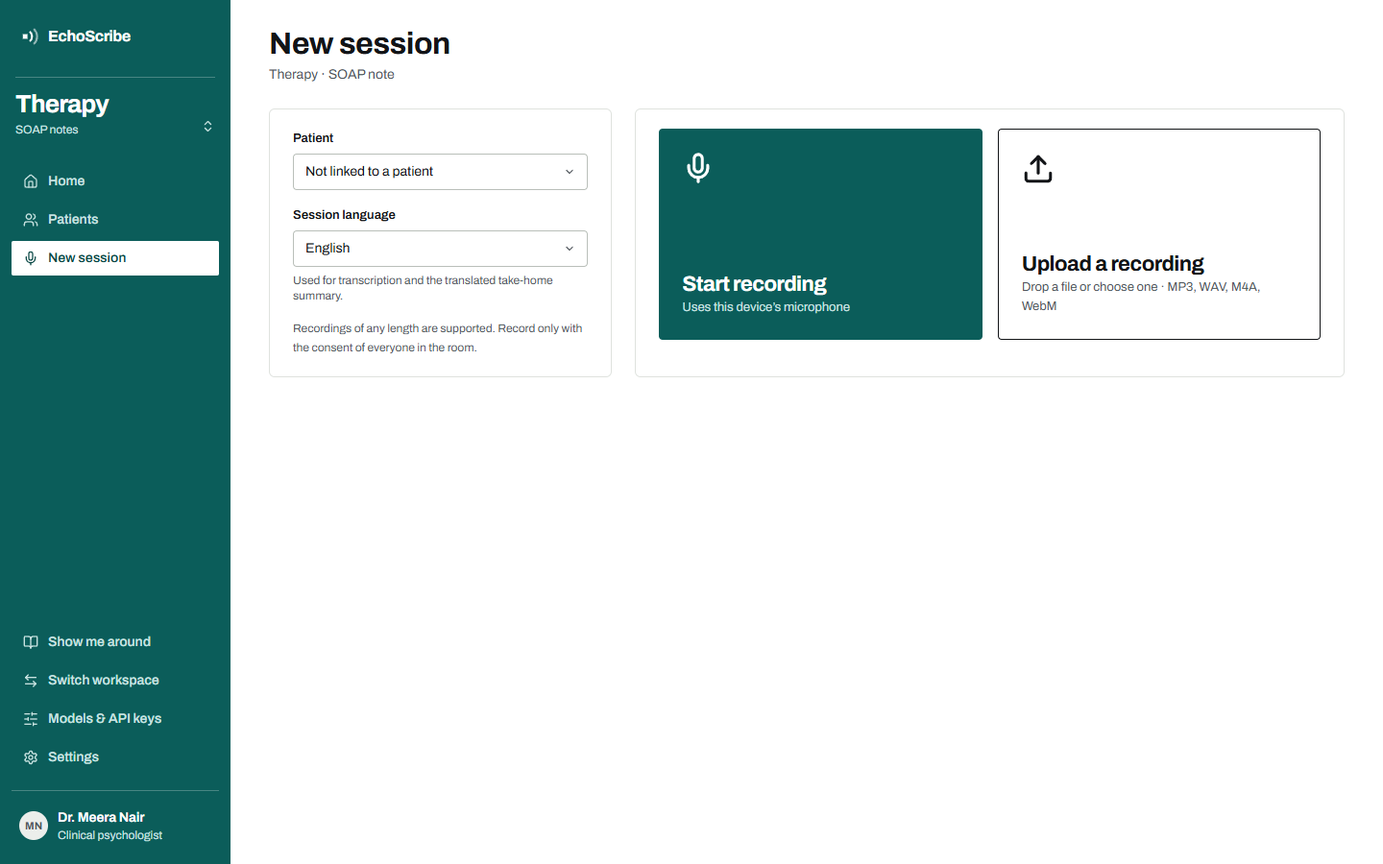
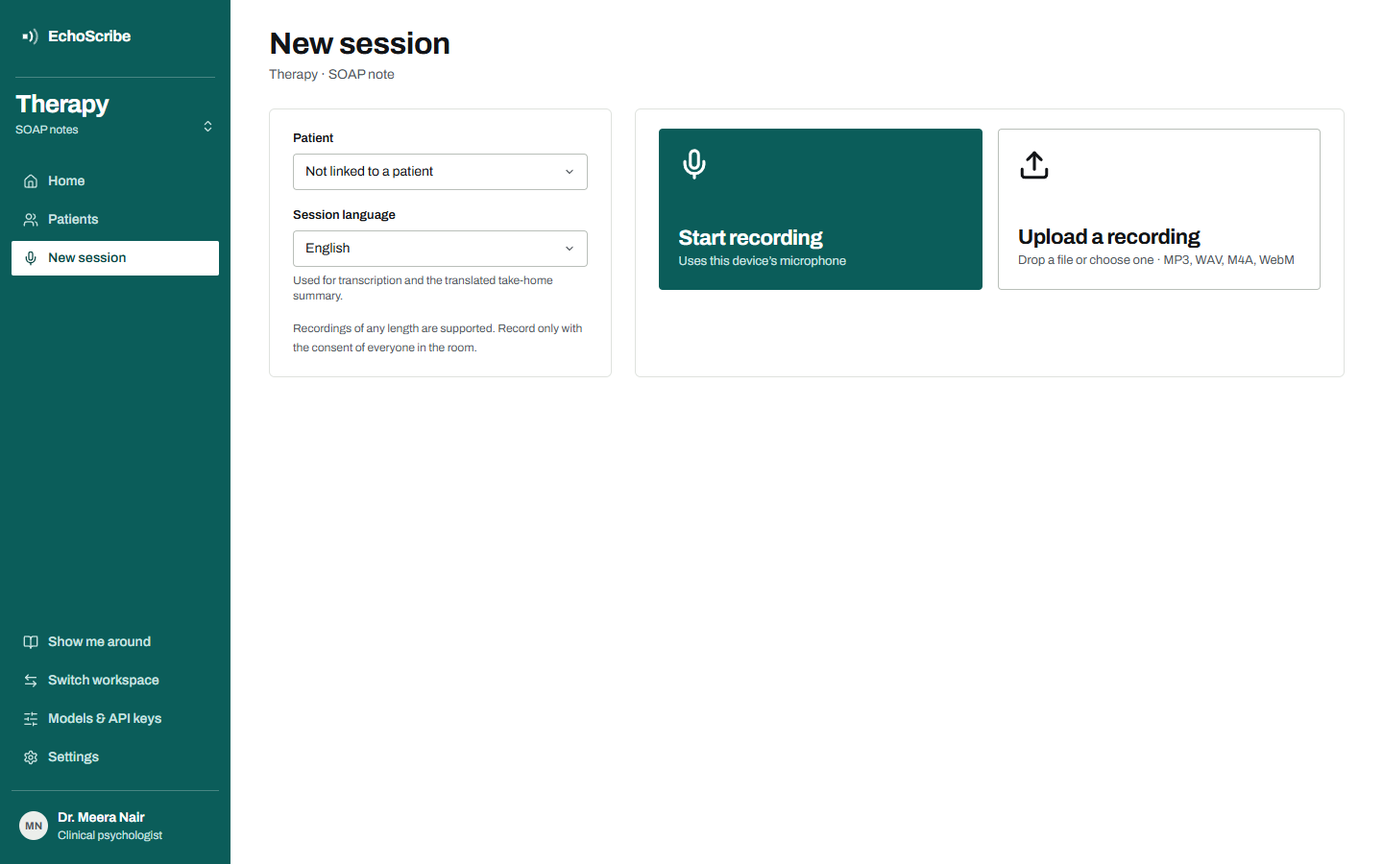
Frontend: critique, worst-case and mobile passes (lighter colour fields, wrapping, touch targets, safe areas)

Changed region(s): [[0.4688, 0.2489, 0.9375, 0.4044], [0.7188, 0.1867, 0.7812, 0.2178], [0.5, 0.1556, 0.5312, 0.2178]]

diff --git a/frontend/src/styles/index.css b/frontend/src/styles/index.css
@@ -124,6 +124,13 @@
 /* ─── base ─── */
 
 html, body, #root { height: 100%; }
+html {
+  -webkit-tap-highlight-color: transparent;  /* no grey flash on tap; controls have their own :active */
+  -webkit-text-size-adjust: 100%;
+  overscroll-behavior: none;                 /* app shell: no pull-to-refresh or page rubber band */
+}
+button, a, [role="button"], [role="tab"], [role="switch"] { touch-action: manipulation; }
+button, [role="button"], [role="tab"], .btn, .nav-item, .subnav-item, .menu-item, .tab { -webkit-user-select: none; user-select: none; }
 body {
   margin: 0;
   background: var(--chrome);
@@ -203,20 +210,15 @@ a { text-underline-offset: 3px; }
   .btn:active:not(:disabled) { box-shadow: inset 0 1px 2px rgba(0,0,0,.18); }
   .btn:disabled { cursor: not-allowed; opacity: 0.5; }
   .btn-primary, .btn-accent { background: var(--accent); color: var(--on-accent); border: 1px solid var(--accent); }
-  .btn-primary:hover:not(:disabled), .btn-accent:hover:not(:disabled) { background: var(--accent-ink); border-color: var(--accent-ink); }
   .btn-secondary { background: var(--ground); color: var(--text); border: 1px solid var(--control); }
-  .btn-secondary:hover:not(:disabled) { border-color: var(--text); }
   .btn-ghost { background: transparent; color: var(--text); border: 1px solid transparent; }
-  .btn-ghost:hover:not(:disabled) { background: var(--surface-2); }
   .btn-danger { background: var(--ground); color: var(--negative); border: 1px solid #e3b4a6; }
-  .btn-danger:hover:not(:disabled) { border-color: var(--negative); }
   .btn-sm { height: 30px; padding: 0 10px; font-size: 13px; }
   .btn-lg { height: 44px; padding: 0 20px; font-size: 15px; }
   .btn-icon { width: 36px; padding: 0; }
   .btn-icon.btn-sm { width: 30px; }
 
   .link { color: var(--accent-ink); font-weight: 550; text-decoration: underline; text-decoration-thickness: 1px; text-decoration-color: color-mix(in srgb, var(--accent) 45%, transparent); }
-  .link:hover { text-decoration-color: var(--accent); }
 
   /* ─── fields ─── */
   .field-label { display: block; font-weight: 600; font-size: 13px; margin-bottom: 6px; }
@@ -231,7 +233,6 @@ a { text-underline-offset: 3px; }
   }
   textarea.input { height: auto; padding: 9px 12px; resize: vertical; }
   .input::placeholder { color: var(--faint); }
-  .input:hover { border-color: var(--muted); }
   .input:focus { outline: none; border-color: var(--accent); box-shadow: 0 0 0 1px var(--accent); }
   .input[aria-invalid="true"] { border-color: var(--negative); }
   .input:disabled { background: var(--surface); color: var(--muted); }
@@ -255,22 +256,18 @@ a { text-underline-offset: 3px; }
     border-radius: 2px; color: var(--on-accent-muted); font-weight: 550;
     transition: background-color var(--dur-2), color var(--dur-2);
   }
-  .nav-item:hover { color: var(--on-accent); background: rgba(255, 255, 255, 0.08); }
   .nav-item[aria-current="page"] { color: var(--accent-ink); background: var(--on-accent); }
   .nav-item:focus-visible { outline-color: var(--on-accent); }
   /* secondary navigation on paper (settings) */
   .subnav-item { display: flex; align-items: center; gap: 10px; height: 36px; padding: 0 10px; border-radius: 2px; color: var(--muted); font-weight: 550; transition: background-color var(--dur-2), color var(--dur-2); }
-  .subnav-item:hover { color: var(--text); background: var(--surface); }
   .subnav-item[aria-current="page"] { color: var(--accent-ink); background: var(--accent-tint); font-weight: 650; }
   /* menu items inside floating layers use ink, not the field colours */
   .menu-item { display: flex; align-items: center; gap: 10px; height: 34px; padding: 0 10px; border-radius: 2px; color: var(--text); font-weight: 500; width: 100%; text-align: left; }
-  .menu-item:hover { background: var(--surface-2); }
 
   /* ─── tabs: a rule with the selected tab underlined in the line colour ─── */
   .tabs { display: inline-flex; gap: 20px; border-bottom: 1px solid var(--border); }
   .tab { height: 36px; padding: 0 2px; font-weight: 600; color: var(--muted); border-bottom: 2px solid transparent; margin-bottom: -1px; transition: color var(--dur-2), border-color var(--dur-2); }
   .tab[aria-selected="true"] { color: var(--text); border-bottom-color: var(--accent); }
-  .tab:hover:not([aria-selected="true"]) { color: var(--text); }
 
   /* ─── switch ─── */
   .switch { position: relative; width: 36px; height: 20px; border-radius: 2px; background: var(--control); transition: background-color var(--dur-2); flex: none; }
@@ -285,12 +282,36 @@ a { text-underline-offset: 3px; }
     background: var(--ground); border: 1px solid var(--border); border-radius: var(--radius-inner);
     transition: border-color var(--dur-2), background-color var(--dur-2);
   }
-  a.row-card:hover, button.row-card:hover { border-color: var(--text); }
 
   /* data tables */
   .table { width: 100%; border-collapse: collapse; font-variant-numeric: tabular-nums; }
   .table th { text-align: left; font-size: 12px; font-weight: 650; color: var(--muted); padding: 0 12px 8px; border-bottom: 1px solid var(--text); white-space: nowrap; }
   .table td { padding: 11px 12px; border-bottom: 1px solid var(--rule); vertical-align: middle; }
   .table tbody tr { transition: background-color var(--dur-2); }
-  .table tbody tr:hover { background: var(--surface); }
+
+  /* hover only where the pointer can hover: no sticky hover after a tap on phones */
+  @media (hover: hover) and (pointer: fine) {
+    .btn-primary:hover:not(:disabled), .btn-accent:hover:not(:disabled) { background: var(--accent-ink); border-color: var(--accent-ink); }
+    .btn-secondary:hover:not(:disabled) { border-color: var(--text); }
+    .btn-ghost:hover:not(:disabled) { background: var(--surface-2); }
+    .btn-danger:hover:not(:disabled) { border-color: var(--negative); }
+    .link:hover { text-decoration-color: var(--accent); }
+    .input:hover { border-color: var(--muted); }
+    .nav-item:hover { color: var(--on-accent); background: rgba(255, 255, 255, 0.08); }
+    .subnav-item:hover { color: var(--text); background: var(--surface); }
+    .menu-item:hover { background: var(--surface-2); }
+    .tab:hover:not([aria-selected="true"]) { color: var(--text); }
+    a.row-card:hover, button.row-card:hover { border-color: var(--text); }
+    .table tbody tr:hover { background: var(--surface); }
+  }
+
+  /* phones and tablets: 44px touch targets, 16px inputs so iOS does not zoom on focus */
+  @media (pointer: coarse) {
+    .btn { min-height: 44px; }
+    .btn-sm { height: 40px; min-height: 40px; }
+    .btn-icon { min-width: 44px; }
+    .btn-icon.btn-sm { width: 40px; min-width: 40px; }
+    .input, select.input, textarea.input { font-size: 16px; }
+    .nav-item, .subnav-item, .menu-item { min-height: 44px; }
+  }
 }

diff --git a/frontend/src/screens/Record.tsx b/frontend/src/screens/Record.tsx
@@ -257,7 +257,7 @@ export default function Record() {
         <section className="panel lg:col-span-8" data-tour="record-controls" aria-label="Record or upload">
           {phase === 'idle' && (
             <div className="grid grid-cols-1 md:grid-cols-2 gap-4">
-              <button type="button" onClick={start} className="field-accent rounded-[4px] flex flex-col items-start justify-between gap-10 p-6 min-h-[220px] text-left hover:bg-accent-ink transition-colors">
+              <button type="button" onClick={start} className="field-accent rounded-[4px] flex flex-col items-start justify-between gap-6 p-5 min-h-[168px] text-left hover:bg-accent-ink transition-colors">
                 <Mic size={34} strokeWidth={2.2} />
                 <span>
                   <span className="block font-bold text-[22px] tracking-[-0.02em]">Start recording</span>
@@ -268,7 +268,7 @@ export default function Record() {
                 onDragOver={e => { e.preventDefault(); setDragOver(true) }}
                 onDragLeave={() => setDragOver(false)}
                 onDrop={e => { e.preventDefault(); setDragOver(false); pickFile(e.dataTransfer.files?.[0]) }}
-                className={clsx('rounded-[4px] border flex flex-col items-start justify-between gap-10 p-6 min-h-[220px] cursor-pointer transition-colors', dragOver ? 'border-accent bg-accent-tint' : 'border-ink hover:bg-surface')}
+                className={clsx('rounded-[4px] border flex flex-col items-start justify-between gap-6 p-5 min-h-[168px] cursor-pointer transition-colors', dragOver ? 'border-accent bg-accent-tint' : 'border-control hover:border-ink hover:bg-surface')}
               >
                 <Upload size={34} strokeWidth={2.2} />
                 <span>
@@ -283,17 +283,17 @@ export default function Record() {
           {phase === 'recording' && (
             <div className="flex flex-col gap-4">
               {/* in the room: one quiet field, the clock and the stop control, nothing else */}
-              <div className="field-accent rounded-[4px] p-6 sm:p-8 min-h-[300px] flex flex-col justify-between">
-                <p className="m-0 text-[13px] text-on-accent-muted flex items-center gap-2"><Circle size={8} className="fill-current animate-pulse" />Recording · stop when the session ends</p>
+              <div className="bg-accent-tint border-t-4 border-accent p-5 sm:p-7 min-h-[200px] flex flex-col justify-between">
+                <p className="m-0 text-[13px] text-accent-ink flex items-center gap-2"><Circle size={8} className="fill-negative text-negative animate-pulse" />Recording · stop when the session ends</p>
                 <div className="flex items-end justify-between gap-6 flex-wrap">
-                  <p className="m-0 num font-bold text-[64px] sm:text-[88px] leading-none tracking-[-0.04em]" aria-live="off">{clock(elapsed)}</p>
+                  <p className="m-0 num font-bold text-[56px] sm:text-[72px] leading-none tracking-[-0.04em] text-ink" aria-live="off">{clock(elapsed)}</p>
                   <div className="flex items-center gap-4">
                     <span className="flex items-end gap-[3px] h-10" aria-hidden>
                       {[0.5, 0.8, 1, 0.7, 0.45].map((k, i) => (
-                        <motion.span key={i} className="w-[5px] bg-white/80" animate={{ height: `${Math.max(12, Math.min(100, level * 160 * k + 12))}%` }} transition={{ duration: 0.12 }} />
+                        <motion.span key={i} className="w-[5px] bg-accent" animate={{ height: `${Math.max(12, Math.min(100, level * 160 * k + 12))}%` }} transition={{ duration: 0.12 }} />
                       ))}
                     </span>
-                    <button className="btn btn-lg bg-white text-ink hover:bg-white/90 border border-white" onClick={stop}><Square size={16} fill="currentColor" />Stop</button>
+                    <button className="btn btn-lg btn-primary" onClick={stop}><Square size={16} fill="currentColor" />Stop</button>
                   </div>
                 </div>
               </div>

diff --git a/frontend/src/components/AppShell.tsx b/frontend/src/components/AppShell.tsx
@@ -18,13 +18,13 @@ export function AppShell() {
   useEffect(() => setMenuOpen(false), [location.pathname])
 
   return (
-    <div data-workspace={ws.id} className="min-h-screen bg-ground">
+    <div data-workspace={ws.id} className="min-h-dvh bg-ground">
       <aside className="field-accent hidden lg:flex fixed inset-y-0 left-0 w-[240px] flex-col px-3 pt-5 pb-4" aria-label="Main navigation">
         <SidebarContent />
       </aside>
 
       {/* phone / tablet bar */}
-      <div className="field-accent lg:hidden sticky top-0 z-30 h-[52px] flex items-center gap-2 px-2">
+      <div className="field-accent lg:hidden sticky top-0 z-30 min-h-[52px] pt-[env(safe-area-inset-top)] pl-[max(8px,env(safe-area-inset-left))] pr-[max(8px,env(safe-area-inset-right))] flex items-center gap-2">
         <button className="btn btn-icon btn-sm text-on-accent hover:bg-white/10" aria-label="Open menu" onClick={() => setMenuOpen(true)}><Menu size={18} /></button>
         <Wordmark />
         <span className="ml-auto" />
@@ -33,7 +33,7 @@ export function AppShell() {
       </div>
       <AnimatePresence>
         {menuOpen && (
-          <motion.div className="field-accent lg:hidden fixed inset-0 z-50 flex flex-col px-4 pt-3 pb-4"
+          <motion.div className="field-accent lg:hidden fixed inset-0 z-50 flex flex-col px-4 pt-[calc(12px+env(safe-area-inset-top))] pb-[calc(16px+env(safe-area-inset-bottom))] overflow-y-auto overscroll-contain"
             initial={{ opacity: 0 }} animate={{ opacity: 1 }} exit={{ opacity: 0 }} transition={{ duration: 0.16 }}>
             <div className="flex justify-end">
               <button className="btn btn-icon text-on-accent hover:bg-white/10" aria-label="Close menu" onClick={() => setMenuOpen(false)}><X size={18} /></button>
@@ -43,7 +43,7 @@ export function AppShell() {
         )}
       </AnimatePresence>
 
-      <main className="lg:ml-[240px] min-h-screen bg-ground">
+      <main className="lg:ml-[240px] min-h-dvh bg-ground">
         <Outlet />
       </main>
     </div>
@@ -122,7 +122,7 @@ function UserRow({ name, email, avatar, title, onLogout }: { name: string; email
         className="w-full flex items-center gap-2.5 px-2 py-1.5 text-left hover:bg-white/10 transition-colors">
         <Avatar name={name} src={avatar} size={30} tone="neutral" />
         <span className="flex-1 min-w-0">
-          <span className="block font-semibold leading-5 truncate">{name}</span>
+          <span className="block font-semibold leading-5 truncate" title={name}>{name}</span>
           <span className="block text-[12px] leading-4 text-on-accent-muted truncate">{title || email}</span>
         </span>
       </button>
@@ -150,7 +150,7 @@ export function PageHeader({ title, subtitle, actions, back }: { title: ReactNod
     return () => window.removeEventListener('scroll', onScroll)
   }, [])
   return (
-    <header className={`sticky top-[52px] lg:top-0 z-20 bg-ground transition-[border-color] duration-200 border-b ${stuck ? 'border-ink' : 'border-transparent'}`}>
+    <header className={`sticky top-[calc(52px+env(safe-area-inset-top))] lg:top-0 z-20 bg-ground transition-[border-color] duration-200 border-b ${stuck ? 'border-ink' : 'border-transparent'}`}>
       <div className="flex flex-wrap items-end gap-x-4 gap-y-2 px-4 sm:px-6 lg:px-10 pt-7 pb-4">
         <div className="min-w-0 flex-1">
           {back}

diff --git a/frontend/src/screens/auth/AuthLayout.tsx b/frontend/src/screens/auth/AuthLayout.tsx
@@ -13,15 +13,15 @@ const EXAMPLE = [
 
 export function AuthLayout({ children }: { children: ReactNode }) {
   return (
-    <div data-workspace="therapy" className="min-h-screen bg-ground grid lg:grid-cols-[minmax(0,1.1fr)_minmax(420px,1fr)]">
-      <section className="field-accent hidden lg:flex flex-col justify-between p-10 xl:p-14">
-        <Wordmark />
+    <div data-workspace="therapy" className="min-h-dvh bg-ground grid lg:grid-cols-[minmax(0,1.1fr)_minmax(420px,1fr)]">
+      <section className="bg-accent-tint hidden lg:flex flex-col justify-between p-10 xl:p-14 border-r border-accent-tint-2">
+        <span className="text-accent"><Wordmark /></span>
         <div className="max-w-[560px]">
-          <h2 className="text-[48px] leading-[50px] font-bold tracking-[-0.04em] m-0">Two voices in.<br />One note you can check.</h2>
-          <p className="text-[16px] leading-6 text-on-accent-muted mt-5 max-w-[460px]">
+          <h2 className="text-[44px] leading-[48px] font-bold tracking-[-0.04em] m-0 text-ink">Two voices in.<br />One note you can check.</h2>
+          <p className="text-[16px] leading-6 text-muted mt-5 max-w-[460px]">
             EchoScribe separates the speakers in a therapy or mentoring session, transcribes them, and drafts a SOAP or GROW note in which every sentence cites the turns it came from and is checked by a second model.
           </p>
-          <motion.div className="bg-ground text-ink mt-9 max-w-[520px] p-5"
+          <motion.div className="bg-ground text-ink mt-9 max-w-[520px] p-5 border border-accent-tint-2"
             initial={{ opacity: 0, y: 10 }} animate={{ opacity: 1, y: 0 }} transition={{ duration: 0.45, delay: 0.1, ease: [0.16, 1, 0.3, 1] }}>
             <div className="flex items-baseline justify-between gap-3 mb-3 pb-3 border-b border-ink">
               <span className="font-bold">Example note</span>
@@ -40,7 +40,7 @@ export function AuthLayout({ children }: { children: ReactNode }) {
             </ul>
           </motion.div>
         </div>
-        <p className="text-[12px] text-on-accent-muted m-0">Notes are drafts for a professional to review. EchoScribe does not diagnose.</p>
+        <p className="text-[12px] text-muted m-0">Notes are drafts for a professional to review. EchoScribe does not diagnose.</p>
       </section>
 
       <section className="flex flex-col justify-center px-4 py-10 sm:px-10 xl:px-16">

diff --git a/frontend/src/components/Loading.tsx b/frontend/src/components/Loading.tsx
@@ -21,20 +21,21 @@ export function BootSplash({ label = 'Opening EchoScribe' }: { label?: string })
   )
 }
 
-/* Workspace entry: the chosen product line's colour fills the screen while its data loads. */
+/* Workspace entry: a quiet paper screen; the product line's tile settles in the centre while its data loads. */
 export function WorkspaceEntry({ workspace, name }: { workspace: WorkspaceId; name?: string }) {
   const ws = WORKSPACES[workspace]
   return (
     <motion.div data-workspace={workspace}
-      className="field-accent fixed inset-0 z-50 flex flex-col justify-end p-8 sm:p-14"
-      initial={{ clipPath: 'inset(100% 0 0 0)' }} animate={{ clipPath: 'inset(0% 0 0 0)' }} exit={{ opacity: 0 }}
-      transition={{ duration: 0.55, ease: [0.16, 1, 0.3, 1] }}
+      className="fixed inset-0 z-50 flex flex-col items-center justify-center gap-4 bg-ground"
+      initial={{ opacity: 0 }} animate={{ opacity: 1 }} exit={{ opacity: 0 }} transition={{ duration: 0.25 }}
       role="status" aria-label={`Opening ${ws.label}`}>
-      <motion.p className="text-[56px] sm:text-[96px] leading-none font-bold tracking-[-0.045em] m-0"
-        initial={{ y: 24, opacity: 0 }} animate={{ y: 0, opacity: 1 }} transition={{ delay: 0.2, duration: 0.45, ease: [0.16, 1, 0.3, 1] }}>
+      <motion.span className="field-accent w-[96px] h-[96px] rounded-[6px]"
+        initial={{ scale: 1.5, opacity: 0 }} animate={{ scale: 1, opacity: 1 }} transition={{ duration: 0.45, ease: [0.16, 1, 0.3, 1] }} />
+      <motion.p className="text-[32px] leading-none font-bold tracking-[-0.03em] m-0 mt-2"
+        initial={{ y: 8, opacity: 0 }} animate={{ y: 0, opacity: 1 }} transition={{ delay: 0.15, duration: 0.35, ease: [0.16, 1, 0.3, 1] }}>
         {ws.label}
       </motion.p>
-      <motion.p className="text-on-accent-muted m-0 mt-3 text-[15px]" initial={{ opacity: 0 }} animate={{ opacity: 1 }} transition={{ delay: 0.35 }}>
+      <motion.p className="text-muted m-0 text-[14px]" initial={{ opacity: 0 }} animate={{ opacity: 1 }} transition={{ delay: 0.25 }}>
         {name ? `${name} · ` : ''}{ws.clients} and sessions
       </motion.p>
     </motion.div>

diff --git a/frontend/src/screens/settings/ModelSettings.tsx b/frontend/src/screens/settings/ModelSettings.tsx
@@ -160,15 +160,15 @@ function ConnectedProviders() {
   if (!connected.length) return <div className="mt-6"><EmptyState>No provider is connected yet. Add a key above.</EmptyState></div>
   return (
     <table className="table mt-7">
-      <thead><tr><th scope="col">Connected</th><th scope="col">Keys</th></tr></thead>
+      <thead className="hidden sm:table-header-group"><tr><th scope="col">Connected</th><th scope="col">Keys</th></tr></thead>
       <tbody>
         {connected.map(f => (
           <tr key={f.key}>
-            <td className="font-semibold align-top sm:w-[200px]">{f.label}</td>
-            <td>
+            <td className="font-semibold align-top block sm:table-cell sm:w-[200px] !pb-1 sm:!pb-[11px] !border-b-0 sm:!border-b">{f.label}</td>
+            <td className="block sm:table-cell !pt-0 sm:!pt-[11px]">
               <ul className="list-none m-0 p-0 flex flex-col gap-1">
                 {locals.filter(k => k.family === f.key).map(k => (
-                  <li key={k.id} className="flex items-center gap-2"><KeyRound size={13} className="text-muted" /><span className="num">{maskKey(k.key)}</span><span className="text-[12px] text-muted">this browser</span>
+                  <li key={k.id} className="flex items-center gap-2"><KeyRound size={13} className="text-muted" /><span className="num">{maskKey(k.key)}</span><span className="text-[12px] text-muted whitespace-nowrap">this browser</span>
                     <button className="btn btn-ghost btn-icon btn-sm ml-auto" aria-label={`Remove ${f.label} key`} onClick={() => localKeys.remove(k.id)}><X size={14} /></button></li>
                 ))}
                 {(synced.data?.keys || []).filter(k => k.family === f.key).map(k => (

diff --git a/frontend/src/lib/format.ts b/frontend/src/lib/format.ts
@@ -9,10 +9,20 @@ export function firstName(fullName: string | null | undefined, email?: string) {
   return email ? email.split('@')[0] : 'there'
 }
 
+type GraphemeSegmenter = { segment(s: string): Iterable<{ segment: string }> }
+const SegmenterCtor = (Intl as unknown as { Segmenter?: new (l?: string, o?: { granularity: 'grapheme' }) => GraphemeSegmenter }).Segmenter
+const segmenter = SegmenterCtor ? new SegmenterCtor(undefined, { granularity: 'grapheme' }) : null
+const firstGrapheme = (word: string) => (segmenter ? [...segmenter.segment(word)][0]?.segment : Array.from(word)[0]) || ''
+
+/** Initials from the first and last word (titles, numbers and suffixes like III skipped); scripts without
+    letter case (Chinese, Arabic, …) get a single character, which is how their names are abbreviated. */
 export function initials(name: string | null | undefined) {
-  const parts = (name || '').trim().split(/\s+/).filter(p => !/^(dr|prof)\.?$/i.test(p))
+  const parts = (name || '').trim().split(/\s+/).filter(p => !/^(dr|prof|mr|mrs|ms)\.?$/i.test(p) && !/^(\d+|jr\.?|sr\.?)$/i.test(p) && !/^[IVX]{2,}$/.test(p))
   if (!parts.length) return '·'
-  return ((parts[0][0] || '') + (parts.length > 1 ? parts[parts.length - 1][0] : '')).toUpperCase()
+  const first = firstGrapheme(parts[0])
+  if (first.toUpperCase() === first.toLowerCase()) return first   // no letter case: one character
+  const last = parts.length > 1 ? firstGrapheme(parts[parts.length - 1]) : ''
+  return (first + last).toUpperCase()
 }
 
 export function greeting(date = new Date()) {

diff --git a/frontend/src/screens/Home.tsx b/frontend/src/screens/Home.tsx
@@ -121,8 +121,8 @@ export default function Home() {
                         <td className="text-muted whitespace-nowrap">{relativeDay(s.created_at)}</td>
                         <td className="hidden md:table-cell w-[150px]"><ConversationStrip turns={s.analysis_json?.conversation?.turns || []} professional={ws.professional} client={ws.client} variant="mini" /></td>
                         <td className="whitespace-nowrap">
-                          {g ? <span className="num text-[13px]">{g.supported}/{g.statements} supported</span> : <span className="text-[13px] text-faint">not verified</span>}
-                          {isRiskFlagged(s) && <span className="pill pill-negative ml-2">Flag</span>}
+                          {g ? <span className="num text-[13px]">{g.supported}/{g.statements}<span className="hidden sm:inline"> supported</span></span> : <span className="text-[13px] text-faint">not verified</span>}
+                          {isRiskFlagged(s) && <span className="pill pill-negative ml-1.5 sm:ml-2 !px-1.5 sm:!px-[7px]" title="Risk screen flag"><span aria-hidden className="sm:hidden">!</span><span className="sr-only sm:not-sr-only">Flag</span></span>}
                         </td>
                       </tr>
                     )

diff --git a/frontend/src/screens/Clients.tsx b/frontend/src/screens/Clients.tsx
@@ -70,10 +70,10 @@ export default function Clients() {
                     return (
                       <tr key={p.id} className="cursor-pointer" onClick={() => navigate(href)}>
                         <td>
-                          <Link to={href} className="flex items-center gap-3 font-semibold hover:underline" onClick={e => e.stopPropagation()}>
+                          <Link to={href} className="flex items-start sm:items-center gap-3 font-semibold hover:underline" onClick={e => e.stopPropagation()}>
                             <Avatar name={p.name} size={30} />
-                            <span className="truncate">{p.name}</span>
-                            {st?.flagged && <span className="pill pill-negative">Flag</span>}
+                            <span className="min-w-0 [overflow-wrap:anywhere] pt-1 sm:pt-0">{p.name}</span>
+                            {st?.flagged && <span className="pill pill-negative flex-none mt-1 sm:mt-0">Flag</span>}
                           </Link>
                         </td>
                         <td className="hidden sm:table-cell text-muted">{[p.age ? `${p.age}` : null, p.gender].filter(Boolean).join(' · ') || '—'}</td>

diff --git a/frontend/src/screens/Summary.tsx b/frontend/src/screens/Summary.tsx
@@ -231,7 +231,7 @@ function TranscriptPanel({ turns, focus }: { turns: NumberedTurn[]; focus: numbe
   return (
     <div className="panel !p-0 overflow-hidden" data-tour="transcript">
       <h2 className="m-0 px-5 pt-4 pb-3 section-title border-b border-rule">Transcript <span className="font-normal text-muted num">· {turns.length} turns</span></h2>
-      <ol className="list-none m-0 max-h-[min(560px,calc(100vh-360px))] min-h-[240px] overflow-auto">
+      <ol className="list-none m-0 max-h-[min(560px,calc(100dvh-360px))] min-h-[240px] overflow-auto">
         {turns.map(t => (
           <li key={t.id} ref={el => { if (el && set.has(t.id) && focus[0] === t.id) el.scrollIntoView({ block: 'nearest', behavior: 'smooth' }) }}
             className={clsx('grid grid-cols-[48px_1fr] transition-colors duration-150 border-b border-rule last:border-b-0', set.has(t.id) ? 'bg-accent-tint' : 'bg-transparent')}>

diff --git a/frontend/src/components/charts.tsx b/frontend/src/components/charts.tsx
@@ -42,7 +42,7 @@ export function BarList({ items, unit = '' }: { items: { label: string; value: n
           <span className="relative h-8 bg-surface-2 overflow-hidden">
             <span className="absolute inset-y-0 left-0"
               style={{ width: `${(it.value / max) * 100}%`, background: i === 0 ? 'var(--accent-tint-2)' : 'var(--accent-tint)' }} />
-            <span className="absolute inset-0 flex items-center px-3 truncate">{it.label}</span>
+            <span className="absolute inset-0 flex items-center px-3 truncate" title={it.label}>{it.label}</span>
           </span>
           <span className="num text-right">{it.value}{unit}</span>
         </li>

diff --git a/frontend/src/components/ui.tsx b/frontend/src/components/ui.tsx
@@ -153,7 +153,7 @@ export function ToastProvider({ children }: { children: ReactNode }) {
   return (
     <ToastContext.Provider value={push}>
       {children}
-      <div className="fixed z-[60] bottom-5 left-1/2 -translate-x-1/2 flex flex-col items-center gap-2 pointer-events-none w-[min(92vw,440px)]" aria-live="polite">
+      <div className="fixed z-[60] bottom-[calc(20px+env(safe-area-inset-bottom))] left-1/2 -translate-x-1/2 flex flex-col items-center gap-2 pointer-events-none w-[min(92vw,440px)]" aria-live="polite">
         <AnimatePresence>
           {toasts.map(t => (
             <motion.div key={t.id} layout
